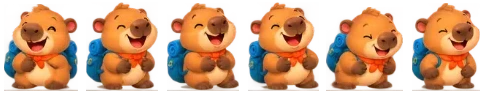
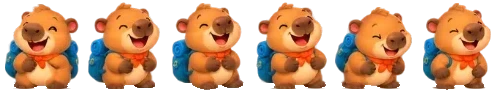
Tico: quadros alinhados, sem caixa/linha de fundo e sem verde no escuro
- Tiras refeitas: cada quadro centrado pelo corpo do Tico (antes ele
  pulava até 7 px de um quadro para o outro), sem o fundo quase
  invisível da folha original (virava uma caixa no tema escuro) e sem
  a linha de chão.
- Tema escuro: degradê do topo sem verde; rodapé de acerto/erro com
  fundo neutro (a cor fica na borda e no título).
- Teste: tamanho de cada tira bate com quadros x largura do componente.

Claude-Session: https://claude.ai/code/session_012fkxB7y23hBrVHQy5SnxMb

diff --git a/src/styles/global.css b/src/styles/global.css
@@ -37,6 +37,8 @@
   --warn-soft: #fff7ed;
   --warn-border: #fed7aa;
   --warn-fg: #9a3412;
+  --feedback-ok-bg: #f0fdf4;
+  --feedback-bad-bg: #fff7ed;
   --danger: #dc2626;
   --danger-soft: #fef2f2;
   --danger-border: #fecaca;
@@ -72,7 +74,7 @@ html[data-theme='dark'] {
   --primary-soft: #133049;
   --primary-soft-border: #24527a;
   --primary-deep: #93c5fd;
-  --green-soft: #15301b;
+  --green-soft: #16283a; /* degradês decorativos: azul, sem verde */
   --sky-soft: #132b3f;
   --sky-border: #23445a;
   --gold-strong: #f5b700;
@@ -86,6 +88,10 @@ html[data-theme='dark'] {
   --warn-soft: #3a2311;
   --warn-border: #7c3a12;
   --warn-fg: #fdba74;
+  /* Rodapé de acerto/erro: fundo neutro no escuro (a cor fica na borda e no
+     título), para o Tico não aparecer num bloco verde ou marrom. */
+  --feedback-ok-bg: #152433;
+  --feedback-bad-bg: #152433;
   --danger-soft: #3b1518;
   --danger-border: #7f1d1d;
   --danger-fg: #fca5a5;
@@ -127,6 +133,8 @@ html[data-focus='on'][data-reading='sepia'] {
   --warn-soft: #fff7ed;
   --warn-border: #fed7aa;
   --warn-fg: #9a3412;
+  --feedback-ok-bg: #f0fdf4;
+  --feedback-bad-bg: #fff7ed;
   --danger-soft: #fef2f2;
   --danger-border: #fecaca;
   --danger-fg: #991b1b;
@@ -167,6 +175,8 @@ html[data-theme='dark'] .landing {
   --warn-soft: #fff7ed;
   --warn-border: #fed7aa;
   --warn-fg: #9a3412;
+  --feedback-ok-bg: #f0fdf4;
+  --feedback-bad-bg: #fff7ed;
   --danger-soft: #fef2f2;
   --danger-border: #fecaca;
   --danger-fg: #991b1b;

diff --git a/src/components/TicoAnim.tsx b/src/components/TicoAnim.tsx
@@ -5,19 +5,19 @@
 import type { CSSProperties } from 'react';
 
 export const TICO_ANIMS = {
-  parado: { frames: 6, w: 68, h: 95, fps: 6 },
-  acenar: { frames: 6, w: 90, h: 94, fps: 8 },
-  palmas: { frames: 6, w: 85, h: 96, fps: 9 },
-  rir: { frames: 6, w: 81, h: 93, fps: 8 },
-  decepcionar: { frames: 6, w: 85, h: 93, fps: 6 },
-  motivar: { frames: 6, w: 88, h: 96, fps: 7 },
-  apontar: { frames: 6, w: 87, h: 95, fps: 7 },
-  pular: { frames: 8, w: 105, h: 118, fps: 9 },
-  correr: { frames: 6, w: 97, h: 91, fps: 12 },
-  andar: { frames: 7, w: 77, h: 94, fps: 9 },
-  voar: { frames: 6, w: 121, h: 108, fps: 8 },
+  parado: { frames: 6, w: 70, h: 95, fps: 6 },
+  acenar: { frames: 6, w: 100, h: 94, fps: 8 },
+  palmas: { frames: 6, w: 93, h: 96, fps: 9 },
+  rir: { frames: 6, w: 83, h: 93, fps: 8 },
+  decepcionar: { frames: 6, w: 87, h: 93, fps: 6 },
+  motivar: { frames: 6, w: 96, h: 96, fps: 7 },
+  apontar: { frames: 6, w: 101, h: 95, fps: 7 },
+  pular: { frames: 8, w: 113, h: 118, fps: 9 },
+  correr: { frames: 6, w: 103, h: 91, fps: 12 },
+  andar: { frames: 7, w: 79, h: 94, fps: 9 },
+  voar: { frames: 6, w: 131, h: 108, fps: 8 },
   cair: { frames: 7, w: 119, h: 92, fps: 8 },
-  dano: { frames: 3, w: 87, h: 102, fps: 6 },
+  dano: { frames: 3, w: 91, h: 102, fps: 6 },
   interagir: { frames: 4, w: 115, h: 103, fps: 6 },
 } as const;
 

diff --git a/tests/web/tico-sprites.test.ts b/tests/web/tico-sprites.test.ts
@@ -1,0 +1,28 @@
+// Tiras de quadros do Tico: o tamanho de cada arquivo precisa bater com o que
+// o componente usa (largura do quadro x número de quadros), senão a animação
+// "escorrega" e mostra pedaços do quadro vizinho.
+import { readFileSync } from 'node:fs';
+import { describe, expect, it } from 'vitest';
+import { TICO_ANIMS } from '../../src/components/TicoAnim';
+
+// Lê largura e altura do cabeçalho de um .webp (VP8, VP8L ou VP8X).
+function webpSize(buf: Buffer): { w: number; h: number } {
+  expect(buf.toString('ascii', 0, 4)).toBe('RIFF');
+  expect(buf.toString('ascii', 8, 12)).toBe('WEBP');
+  const kind = buf.toString('ascii', 12, 16);
+  if (kind === 'VP8X') return { w: 1 + buf.readUIntLE(24, 3), h: 1 + buf.readUIntLE(27, 3) };
+  if (kind === 'VP8L') {
+    const b = buf.readUInt32LE(21);
+    return { w: (b & 0x3fff) + 1, h: ((b >> 14) & 0x3fff) + 1 };
+  }
+  return { w: buf.readUInt16LE(26) & 0x3fff, h: buf.readUInt16LE(28) & 0x3fff };
+}
+
+describe('tiras do Tico', () => {
+  for (const [name, a] of Object.entries(TICO_ANIMS)) {
+    it(`${name}: ${a.frames} quadros de ${a.w}x${a.h}`, () => {
+      const size = webpSize(readFileSync(`public/tico/anim/${name}.webp`));
+      expect(size).toEqual({ w: a.w * a.frames, h: a.h });
+    });
+  }
+});

diff --git a/src/styles/game.css b/src/styles/game.css
@@ -54,8 +54,8 @@ a.phase-node:hover { border-color: var(--primary-soft-border); background: var(-
   display: flex; align-items: center; justify-content: space-between; gap: 16px; flex-wrap: wrap;
   padding: 16px 18px; border-radius: 18px; background: var(--surface); border: 2px solid var(--border);
 }
-.quiz-footer.is-right { background: var(--ok-soft); border-color: var(--ok-border); }
-.quiz-footer.is-wrong { background: var(--warn-soft); border-color: var(--warn-border); }
+.quiz-footer.is-right { background: var(--feedback-ok-bg); border-color: var(--ok-border); }
+.quiz-footer.is-wrong { background: var(--feedback-bad-bg); border-color: var(--warn-border); }
 .quiz-feedback { flex: 1; min-width: 240px; display: grid; gap: 6px; }
 .quiz-feedback p { margin: 0; }
 .quiz-footer.is-right .quiz-feedback strong { color: var(--ok-fg); }
